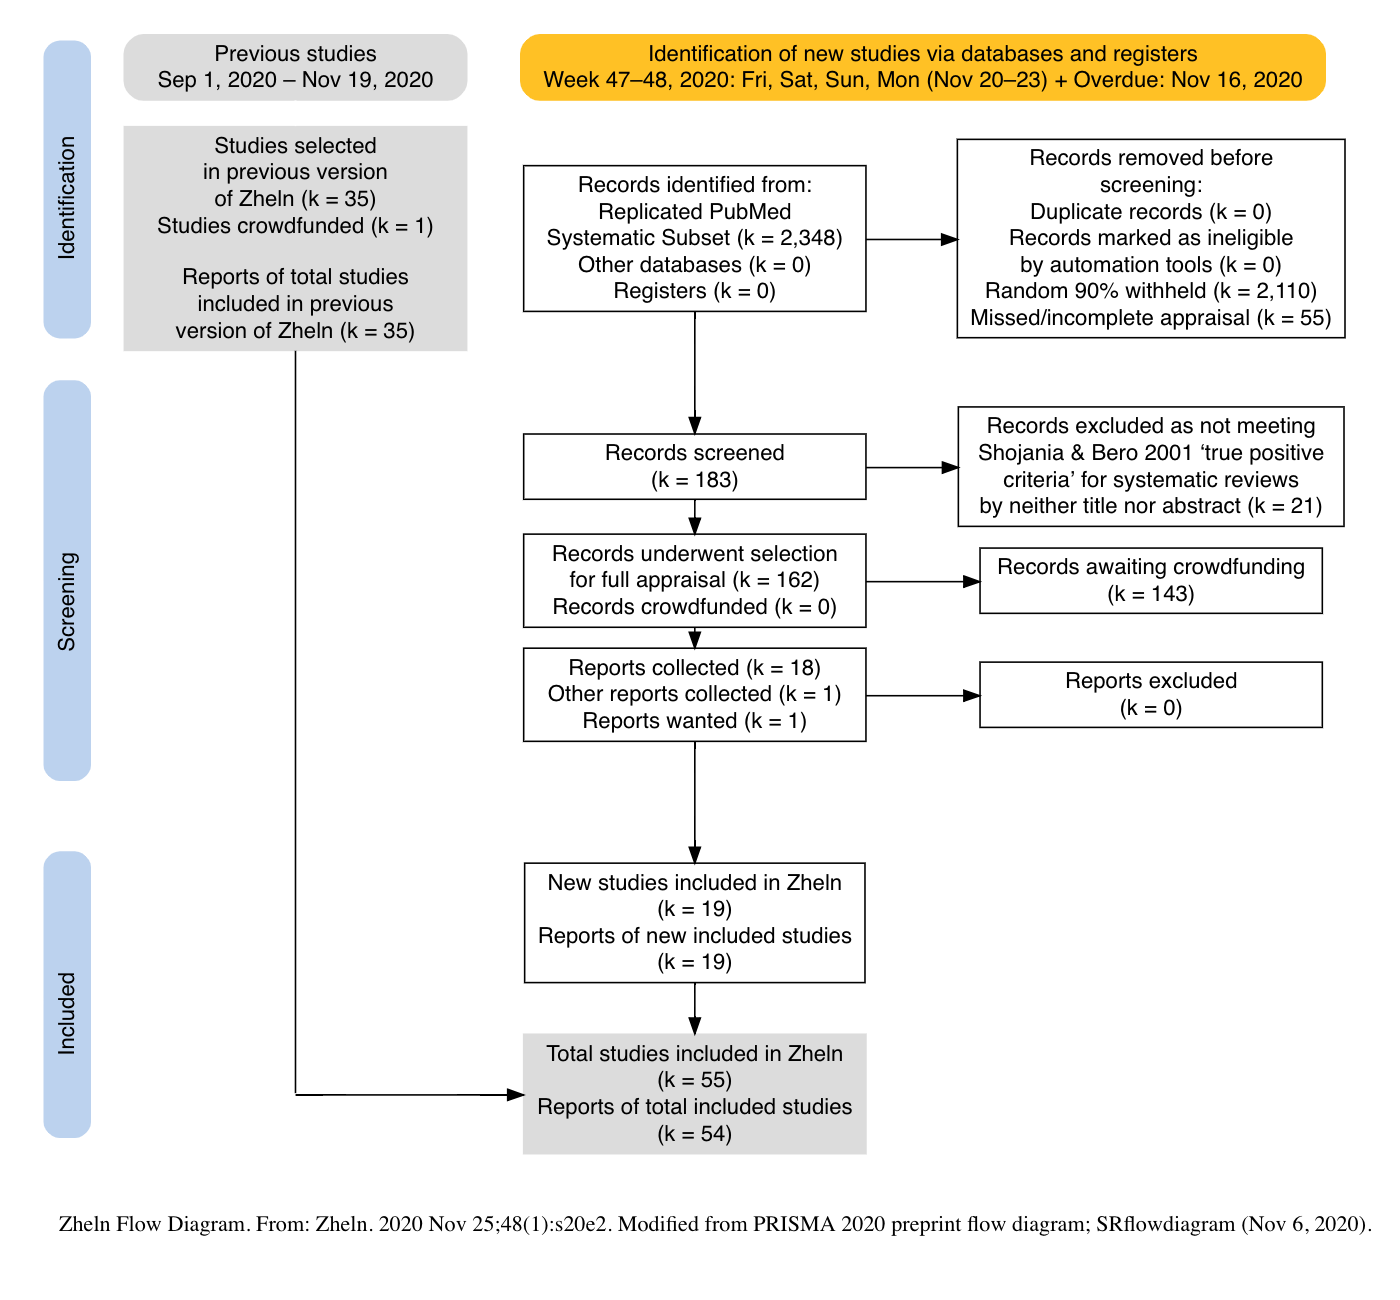
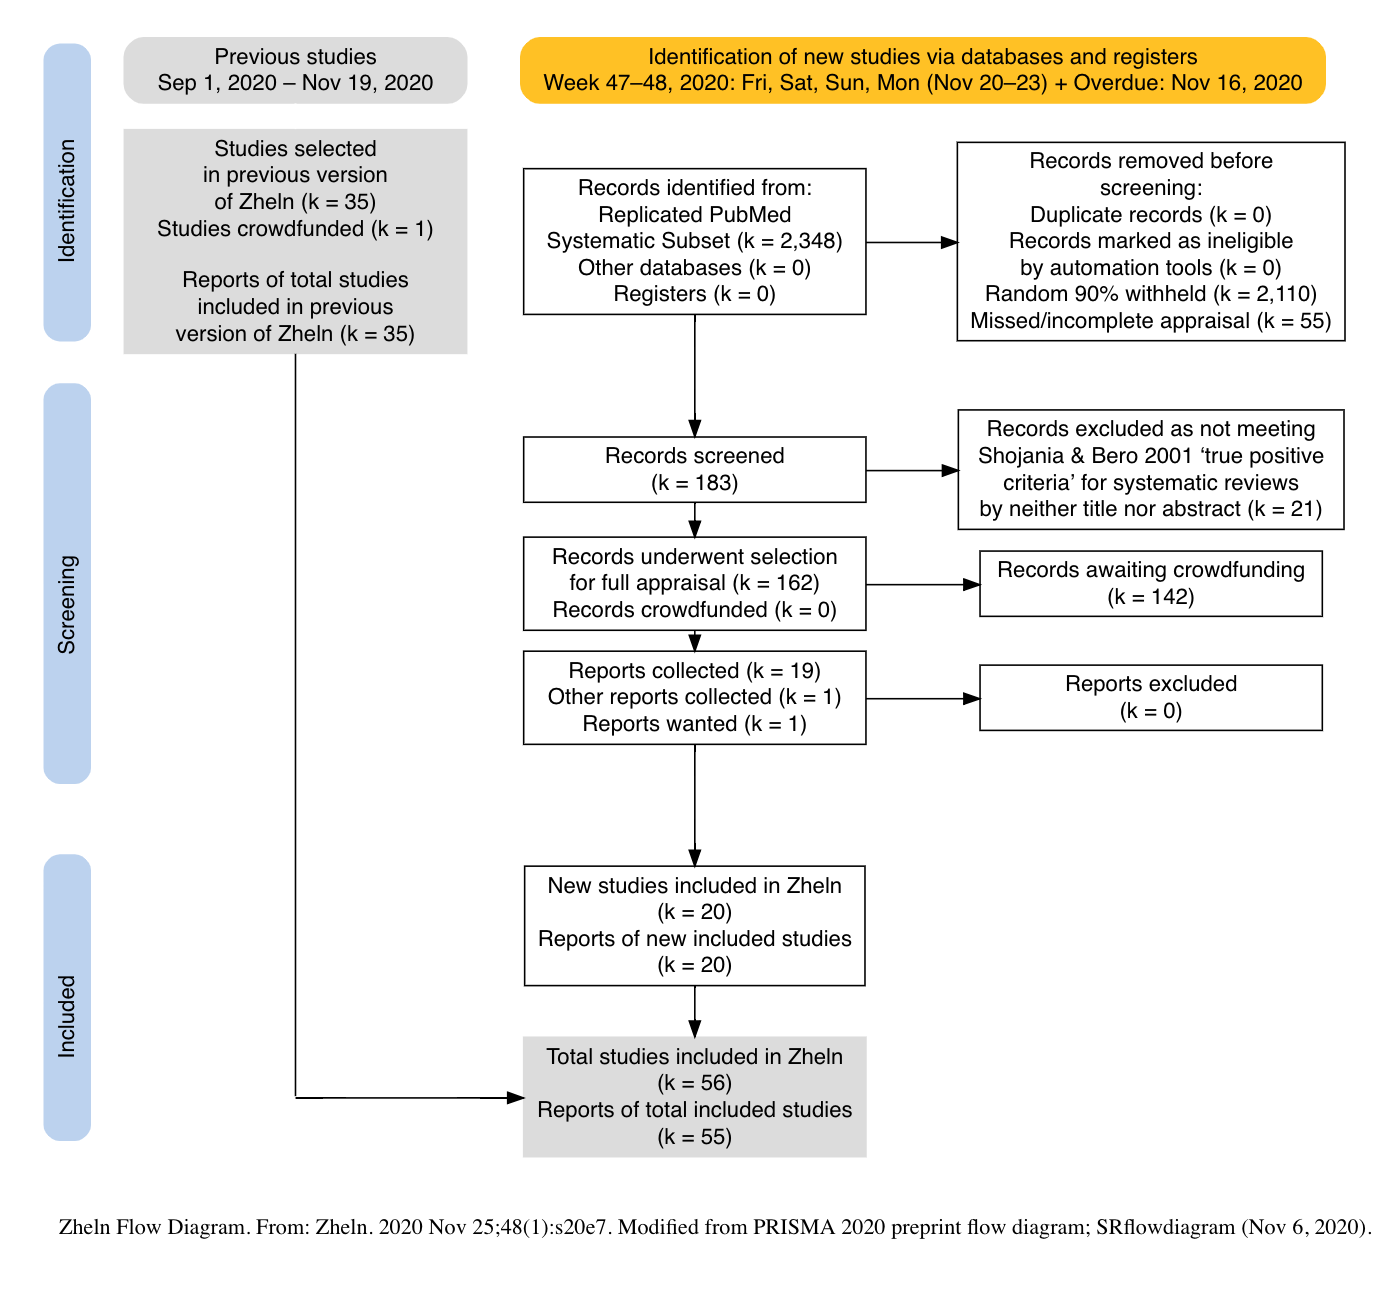
Recalc s25 & s28 flow diagrams
Forgot to include Nov r170d16 record.

diff --git a/_posts/summary/2020-11-25-1.md b/_posts/summary/2020-11-25-1.md
@@ -8,7 +8,7 @@ category:   summary
 thumbnail:  woodpecker-inverted
 ---
 
-<small>Zhelnov P. The 20th summary post. Zheln. 2020 Nov 25;48(1):s20e6. URI: {{ page.url | absolute_url }}.</small>
+<small>Zhelnov P. The 20th summary post. Zheln. 2020 Nov 25;48(1):s20e7. URI: {{ page.url | absolute_url }}.</small>
 
 **[« Previous Summary Post](https://zheln.com/summary/2020/11/21/2/)** | **[Next Summary Post »](https://zheln.com/summary/2020/11/28/2/)**
 

diff --git a/_posts/summary/2020-11-28-2.md b/_posts/summary/2020-11-28-2.md
@@ -8,7 +8,7 @@ category:   summary
 thumbnail:  woodpecker-inverted
 ---
 
-<small>Zhelnov P. The 21st summary post. Zheln. 2020 Nov 28;48(2):s21e2. URI: {{ page.url | absolute_url }}.</small>
+<small>Zhelnov P. The 21st summary post. Zheln. 2020 Nov 28;48(2):s21e3. URI: {{ page.url | absolute_url }}.</small>
 
 **[« Previous Summary Post](https://zheln.com/summary/2020/11/25/1/)** | **[Next Summary Post »](https://zheln.com/summary/2020/12/02/1/)**
 
